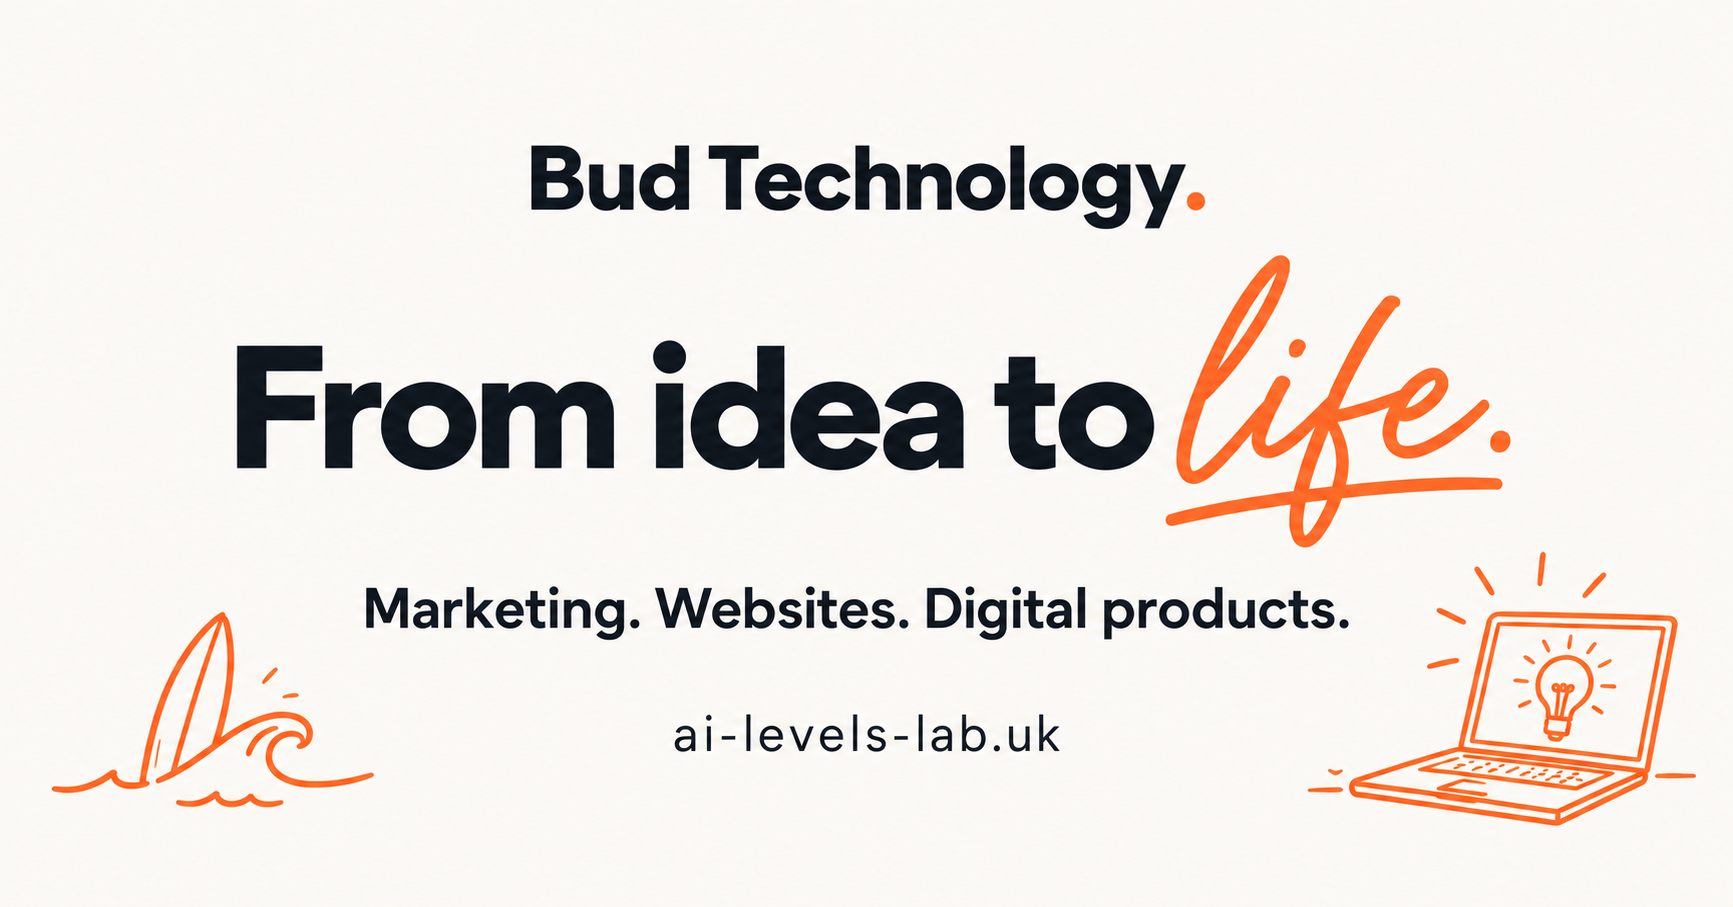
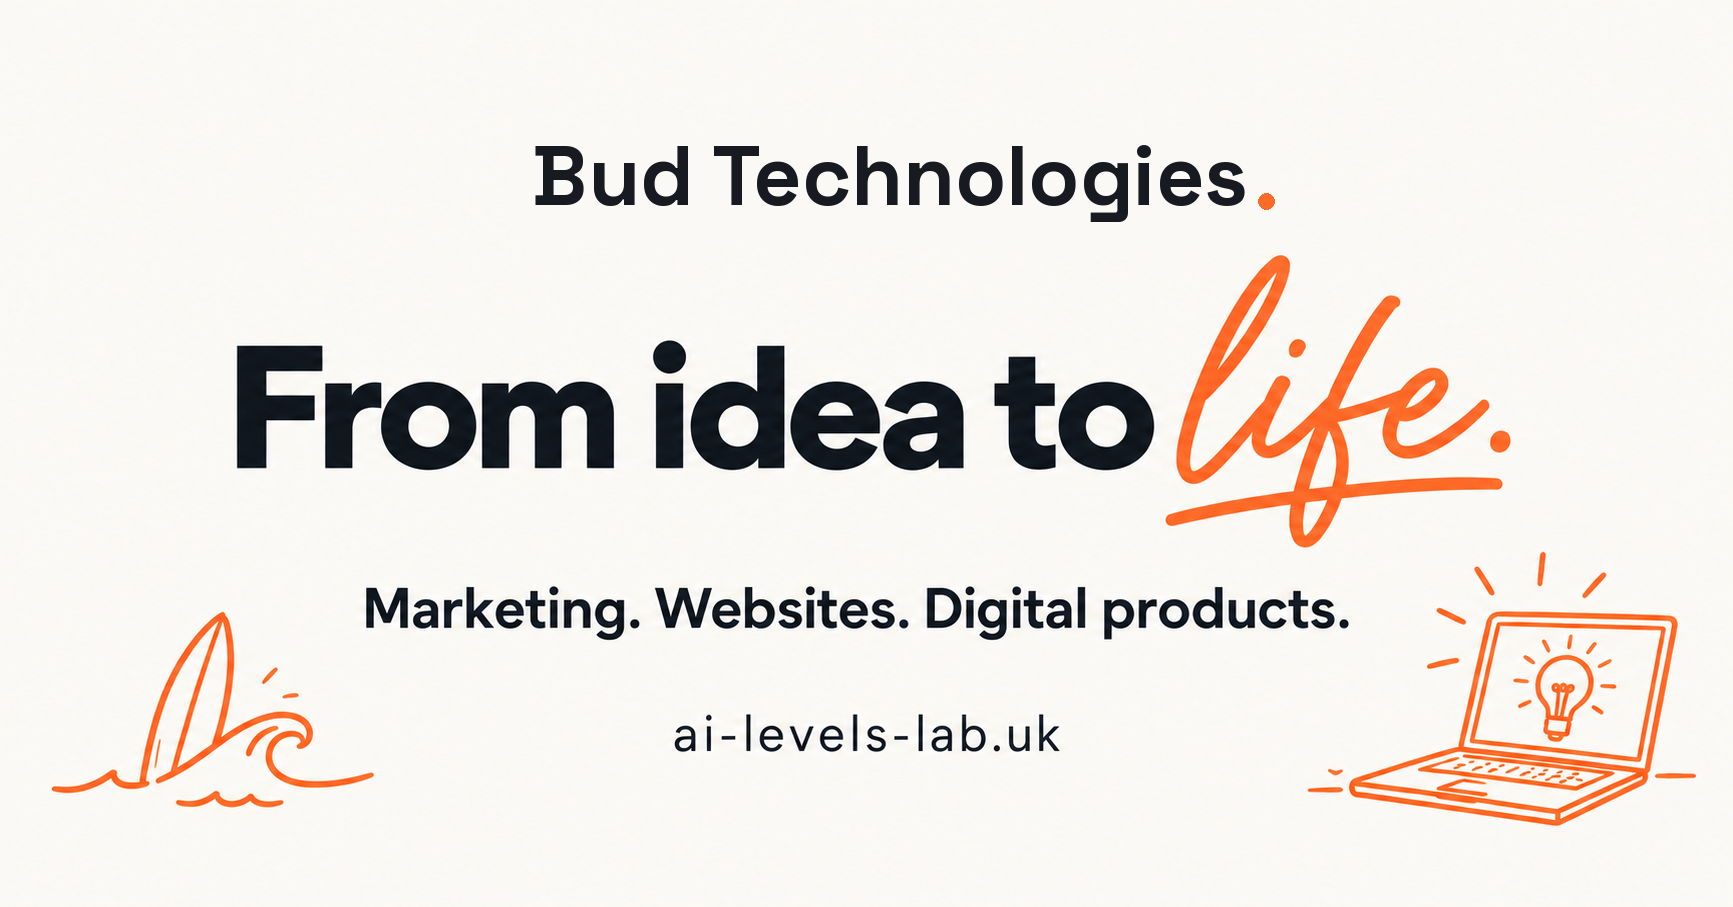
Rename the public brand to Bud Technologies.
The wordmark, titles, meta text, and share image now use Bud Technologies. Ltd stays on the existing legal line. BudApp and FirstLook are unchanged.

Changed region(s): [[0.2804, 0.1544, 0.7478, 0.247]]

diff --git a/index.html b/index.html
@@ -10,21 +10,21 @@
     <meta name="description" content="Domain expertise, amplified by AI. Two decades of technology marketing, now building and shipping products - from idea to launch." />
     <link rel="canonical" href="https://ai-levels-lab.uk/" />
     <meta property="og:type" content="website" />
-    <meta property="og:site_name" content="Bud Technology" />
-    <meta property="og:title" content="Bud Technology | Christian Jones" />
+    <meta property="og:site_name" content="Bud Technologies" />
+    <meta property="og:title" content="Bud Technologies | Christian Jones" />
     <meta property="og:description" content="Marketing expertise, amplified by AI. Two decades of technology marketing, now building and shipping products - from idea to launch." />
     <meta property="og:url" content="https://ai-levels-lab.uk/" />
     <meta property="og:image" content="https://ai-levels-lab.uk/og/bud-technology-share-v1.png" />
-    <meta property="og:image:alt" content="Bud Technology. From idea to life. Marketing. Websites. Digital products." />
+    <meta property="og:image:alt" content="Bud Technologies. From idea to life. Marketing. Websites. Digital products." />
     <meta property="og:image:width" content="1733" />
     <meta property="og:image:height" content="907" />
     <meta property="og:image:type" content="image/png" />
     <meta name="twitter:card" content="summary_large_image" />
-    <meta name="twitter:title" content="Bud Technology | Christian Jones" />
+    <meta name="twitter:title" content="Bud Technologies | Christian Jones" />
     <meta name="twitter:description" content="Marketing expertise, amplified by AI. Two decades of technology marketing, now building and shipping products - from idea to launch." />
     <meta name="twitter:image" content="https://ai-levels-lab.uk/og/bud-technology-share-v1.png" />
-    <meta name="twitter:image:alt" content="Bud Technology. From idea to life. Marketing. Websites. Digital products." />
-    <title>Bud Technology | Christian Jones</title>
+    <meta name="twitter:image:alt" content="Bud Technologies. From idea to life. Marketing. Websites. Digital products." />
+    <title>Bud Technologies | Christian Jones</title>
   </head>
   <body>
     <div id="root"></div>

diff --git a/src/data/projects.js b/src/data/projects.js
@@ -141,7 +141,7 @@ const allProjects = [
     approach: [
       'The live site leads with that offer. It says you work directly with Kerry: he learns the business, makes the calls, and stays involved from the first approach to the meeting.',
       'The approach on the site is three steps. Understand the business. Earn their attention. Make the introduction when there is a commercial fit. Under that sit four kinds of work: executive meetings, target accounts, new markets, and existing relationships that have gone quiet.',
-      'The footer of whiteballmedia.com says the site was thoughtfully built by Bud Technology, and links back here.',
+      'The footer of whiteballmedia.com says the site was thoughtfully built by Bud Technologies, and links back here.',
     ],
     productTitle: 'The live site',
     productIntro: 'Screens from whiteballmedia.com, as the site stands. A finished site, and it is live.',
@@ -155,12 +155,12 @@ const allProjects = [
       'Finished and live at whiteballmedia.com',
       'Written for businesses that need a conversation with a senior decision-maker',
       'Described on the site as one person, personally involved: Kerry Ball',
-      'The live site credits the build to Bud Technology',
+      'The live site credits the build to Bud Technologies',
     ],
     demonstratesList: [
       'A complete website for a specialist practice, finished and live',
       'A plain offer: who it is for, and what working together looks like',
-      'A project the live site itself credits to Bud Technology',
+      'A project the live site itself credits to Bud Technologies',
     ],
   },
   {

diff --git a/src/components/Footer.jsx b/src/components/Footer.jsx
@@ -6,10 +6,10 @@ export default function Footer() {
     <footer className="bud-footer">
       <div className="bud-shell">
         <div className="footer-top">
-          <div><Link to="/" aria-label="Bud Technology home"><Brand compact /></Link><p>Marketing, websites and digital products.<br />Human judgement, amplified by AI.</p></div>
+          <div><Link to="/" aria-label="Bud Technologies home"><Brand compact /></Link><p>Marketing, websites and digital products.<br />Human judgement, amplified by AI.</p></div>
           <div className="footer-links"><Link to="/contact">Get in touch</Link><a href="https://www.linkedin.com/in/budapp/" target="_blank" rel="noopener noreferrer">LinkedIn ↗</a><a href="https://github.com/OJBud" target="_blank" rel="noopener noreferrer">GitHub ↗</a></div>
         </div>
-        <div className="footer-bottom"><span>© {new Date().getFullYear()} Bud Technologies Ltd · Company no. 17455486 · Founded by Christian Jones</span><span>Bud Technology’s home at ai-levels-lab.uk</span></div>
+        <div className="footer-bottom"><span>© {new Date().getFullYear()} Bud Technologies Ltd · Company no. 17455486 · Founded by Christian Jones</span><span>Bud Technologies’ home at ai-levels-lab.uk</span></div>
       </div>
     </footer>
   );

diff --git a/src/data/seo.js b/src/data/seo.js
@@ -1,18 +1,18 @@
 export const SITE_URL = 'https://ai-levels-lab.uk';
-export const SITE_NAME = 'Bud Technology';
+export const SITE_NAME = 'Bud Technologies';
 
 export const pageSeo = {
   '/': {
-    title: 'Bud Technology',
+    title: 'Bud Technologies',
     description: 'Marketing, distinctive websites and digital products for founders and small teams. Founder-led by Christian Jones. Human judgement, amplified by AI.',
   },
   '/method': {
     title: 'How I work',
-    description: 'Direct access to Christian Jones, clear scope and hands-on delivery. The thinking and process behind Bud Technology.',
+    description: 'Direct access to Christian Jones, clear scope and hands-on delivery. The thinking and process behind Bud Technologies.',
   },
   '/services': {
     title: 'Marketing, websites and products',
-    description: 'Hands-on marketing support, website builds and product sprints. Explore ways to work with Christian Jones at Bud Technology.',
+    description: 'Hands-on marketing support, website builds and product sprints. Explore ways to work with Christian Jones at Bud Technologies.',
   },
   '/about': {
     title: 'Christian Jones - the person behind Bud',

diff --git a/src/components/Nav.jsx b/src/components/Nav.jsx
@@ -20,7 +20,7 @@ export default function Nav() {
       <a className="bud-skip" href="#main-content">Skip to content</a>
       <nav className="bud-nav" aria-label="Main navigation">
         <div className="bud-shell bud-nav-inner">
-          <Link to="/" aria-label="Bud Technology home" onClick={() => setOpenAt(null)}><Brand /></Link>
+          <Link to="/" aria-label="Bud Technologies home" onClick={() => setOpenAt(null)}><Brand /></Link>
           <div className="bud-nav-links">
             {links.map((link) => <Link key={link.path} to={link.path} aria-current={currentLocation === link.path ? 'page' : undefined}>{link.name}</Link>)}
             <Link to="/contact" className="bud-nav-cta">Let’s talk <span aria-hidden="true">↗</span></Link>

diff --git a/src/pages/NotFound.jsx b/src/pages/NotFound.jsx
@@ -4,7 +4,7 @@ import SEO from '../components/SEO';
 export default function NotFound() {
   return (
     <section className="pt-32 pb-24 px-6 max-w-3xl mx-auto text-center">
-      <SEO title="Page not found" description="This page is not available. Explore Bud Technology's work or get in touch." path="/404.html" noindex />
+      <SEO title="Page not found" description="This page is not available. Explore Bud Technologies' work or get in touch." path="/404.html" noindex />
       <p className="bud-eyebrow">404 - Page not found</p>
       <h1 className="text-4xl font-display font-bold text-ink mb-6">Let's get you back on track.</h1>
       <p className="text-body mb-8">This page may have moved, or the link may be incorrect.</p>

diff --git a/src/components/ContactForm.jsx b/src/components/ContactForm.jsx
@@ -59,8 +59,8 @@ export default function ContactForm() {
   return (
     <form onSubmit={handleSubmit} className="space-y-5">
       <input type="hidden" name="access_key" value={WEB3FORMS_ACCESS_KEY} />
-      <input type="hidden" name="subject" value="New enquiry from Bud Technology" />
-      <input type="hidden" name="from_name" value="Bud Technology website" />
+      <input type="hidden" name="subject" value="New enquiry from Bud Technologies" />
+      <input type="hidden" name="from_name" value="Bud Technologies website" />
       {/* honeypot: bots tick this, humans never see it */}
       <input type="checkbox" name="botcheck" style={{ display: 'none' }} tabIndex={-1} autoComplete="off" />
       <div>

diff --git a/src/components/SEO.jsx b/src/components/SEO.jsx
@@ -3,7 +3,7 @@ import { SITE_URL, SITE_NAME } from '../data/seo';
 
 // Versioned branded card for general pages; case studies can supply their own image.
 const DEFAULT_OG_IMAGE = '/og/bud-technology-share-v1.png';
-const DEFAULT_OG_ALT = 'Bud Technology. From idea to life. Marketing. Websites. Digital products.';
+const DEFAULT_OG_ALT = 'Bud Technologies. From idea to life. Marketing. Websites. Digital products.';
 
 export default function SEO({ title, description, path = '/', ogImage, ogImageAlt, ogType = 'website', jsonLd, noindex = false }) {
   const fullTitle = title === SITE_NAME ? `${SITE_NAME} | Christian Jones` : `${title} | ${SITE_NAME}`;

diff --git a/src/components/Brand.jsx b/src/components/Brand.jsx
@@ -5,7 +5,7 @@ export default function Brand({ compact = false }) {
         <path d="M12 7v29m0-15c13-12 27-4 23 8-3 9-17 10-23 2" stroke="currentColor" strokeWidth="4" strokeLinecap="round" strokeLinejoin="round" />
         <path d="M18 14c-1-7 4-10 12-10-1 7-5 11-12 10Z" fill="#FF6B2C" />
       </svg>
-      <span><span className="bud-brand-name">Bud Technology<span className="bud-dot">.</span></span>
+      <span><span className="bud-brand-name">Bud Technologies<span className="bud-dot">.</span></span>
       {!compact && <span className="bud-brand-byline">by Christian Jones</span>}</span>
     </span>
   );

diff --git a/src/bud.css b/src/bud.css
@@ -1,4 +1,4 @@
-/* Bud Technology: an editorial studio identity built around real work. */
+/* Bud Technologies: an editorial studio identity built around real work. */
 :root { --bud-ink:#171a20; --bud-paper:#faf8f4; --bud-orange:#ff6b2c; --bud-line:#dedbd3; --bud-body:#4b5058; }
 html { scroll-behavior:smooth; scroll-padding-top:100px; }
 * { box-sizing:border-box; }
